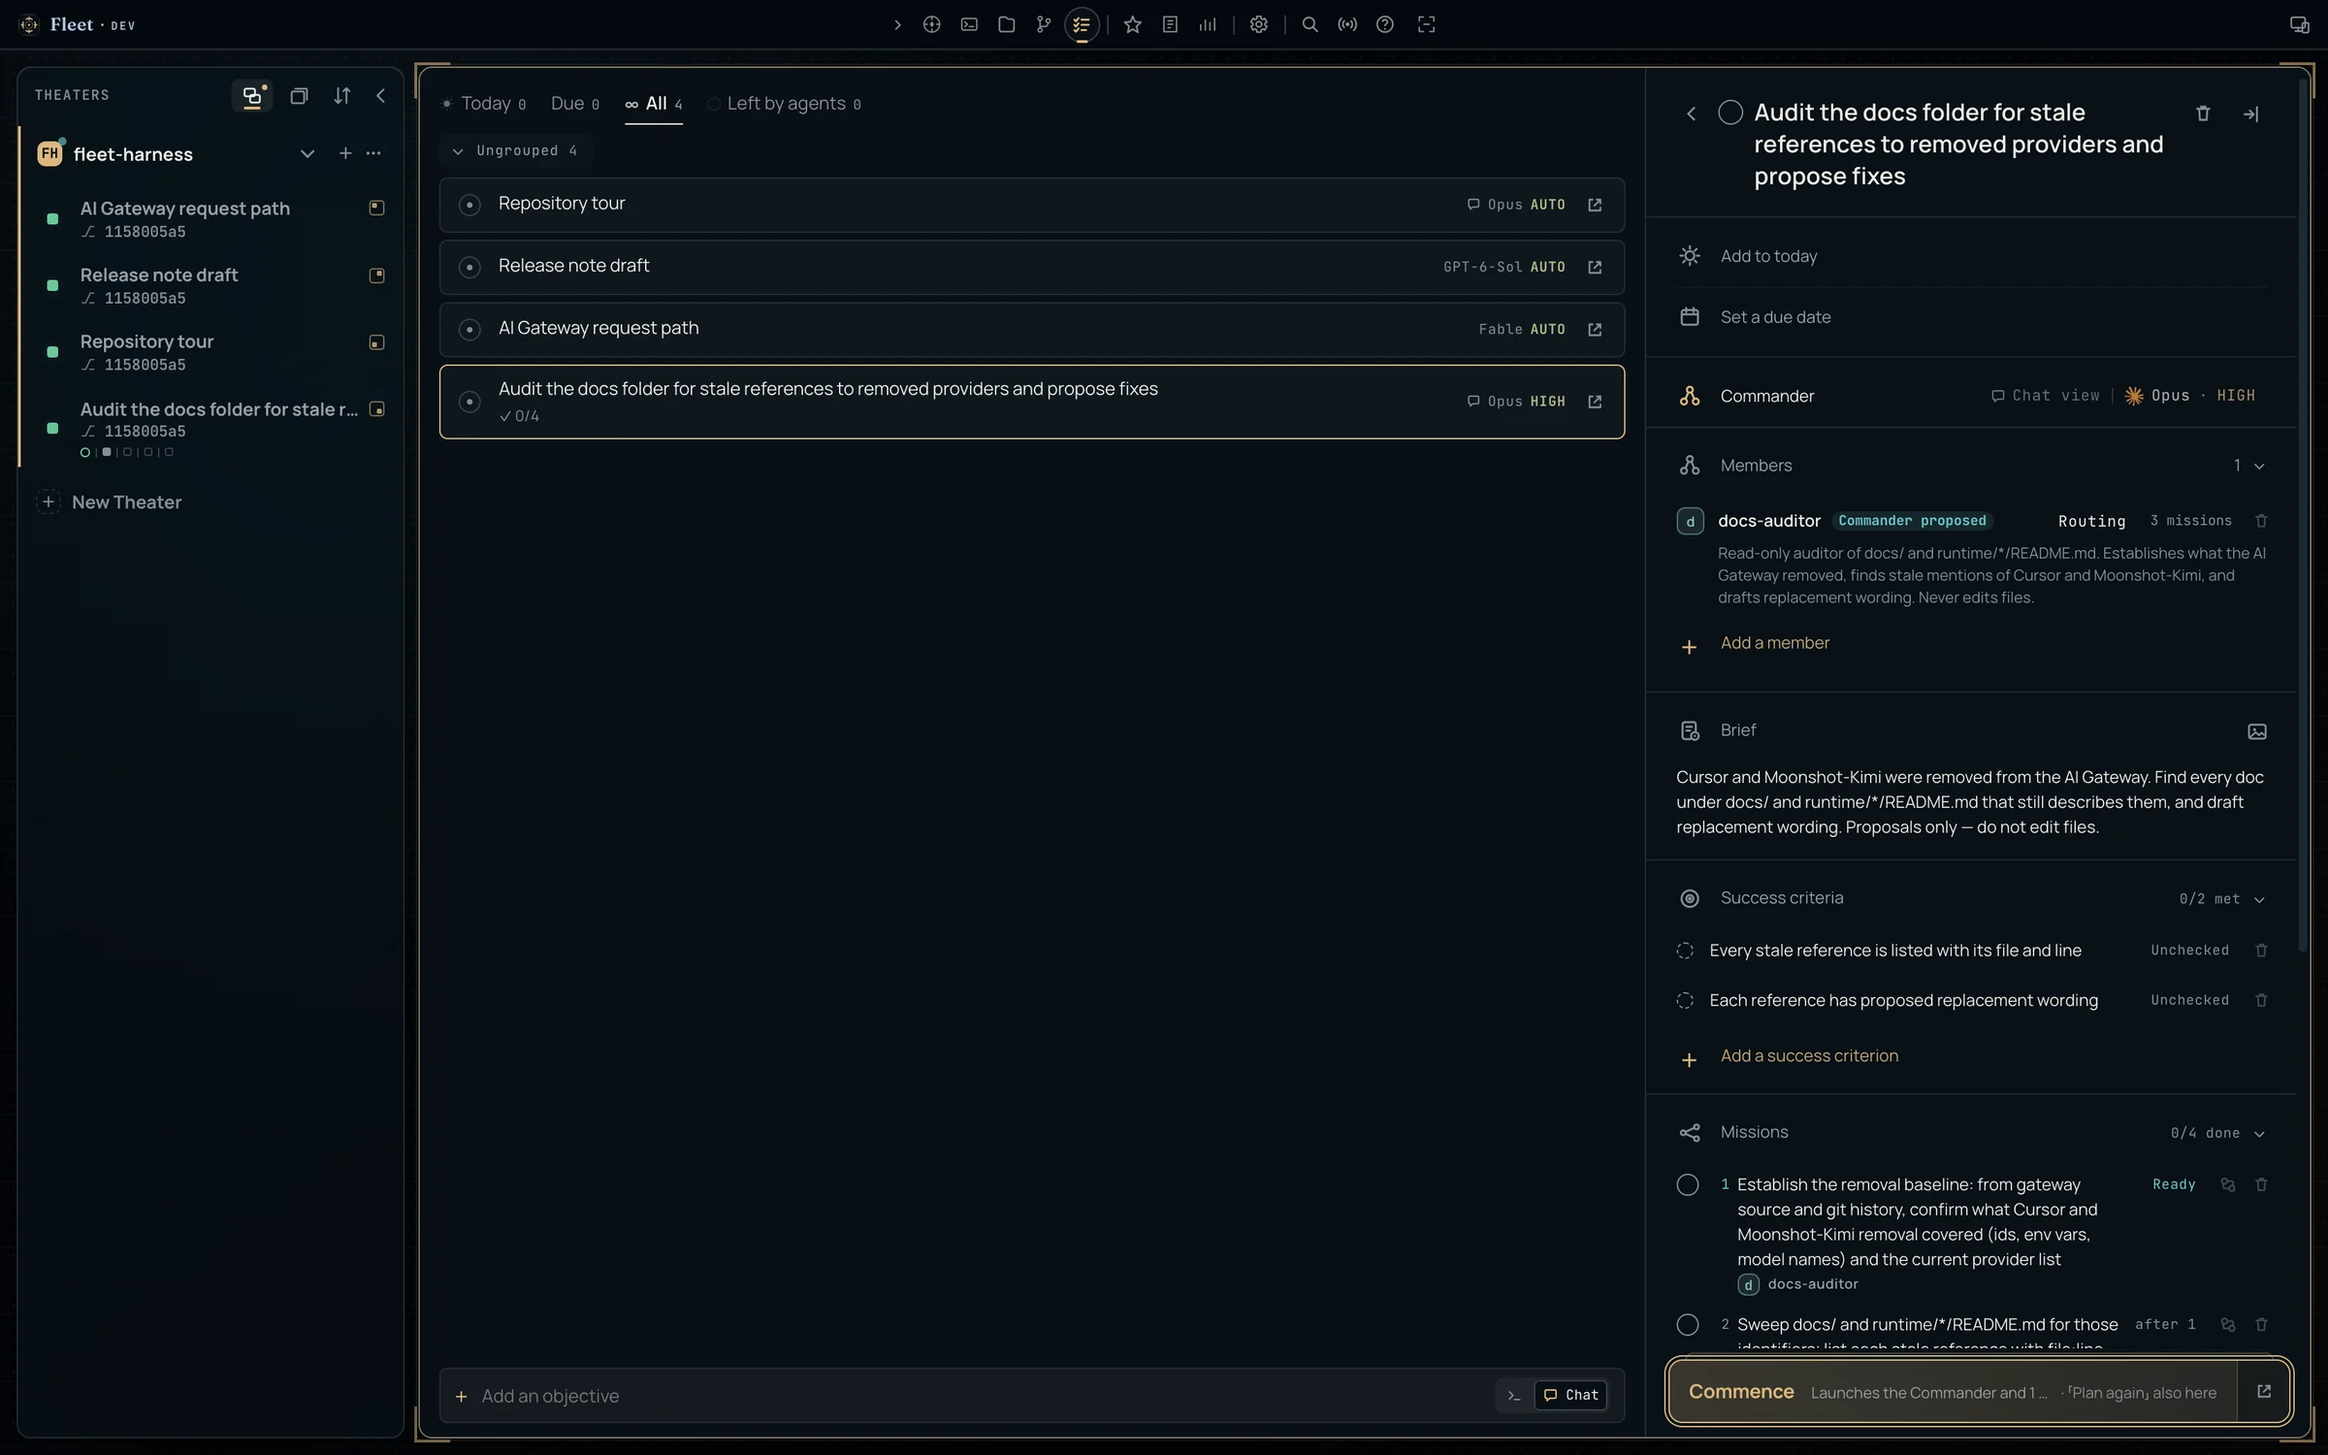
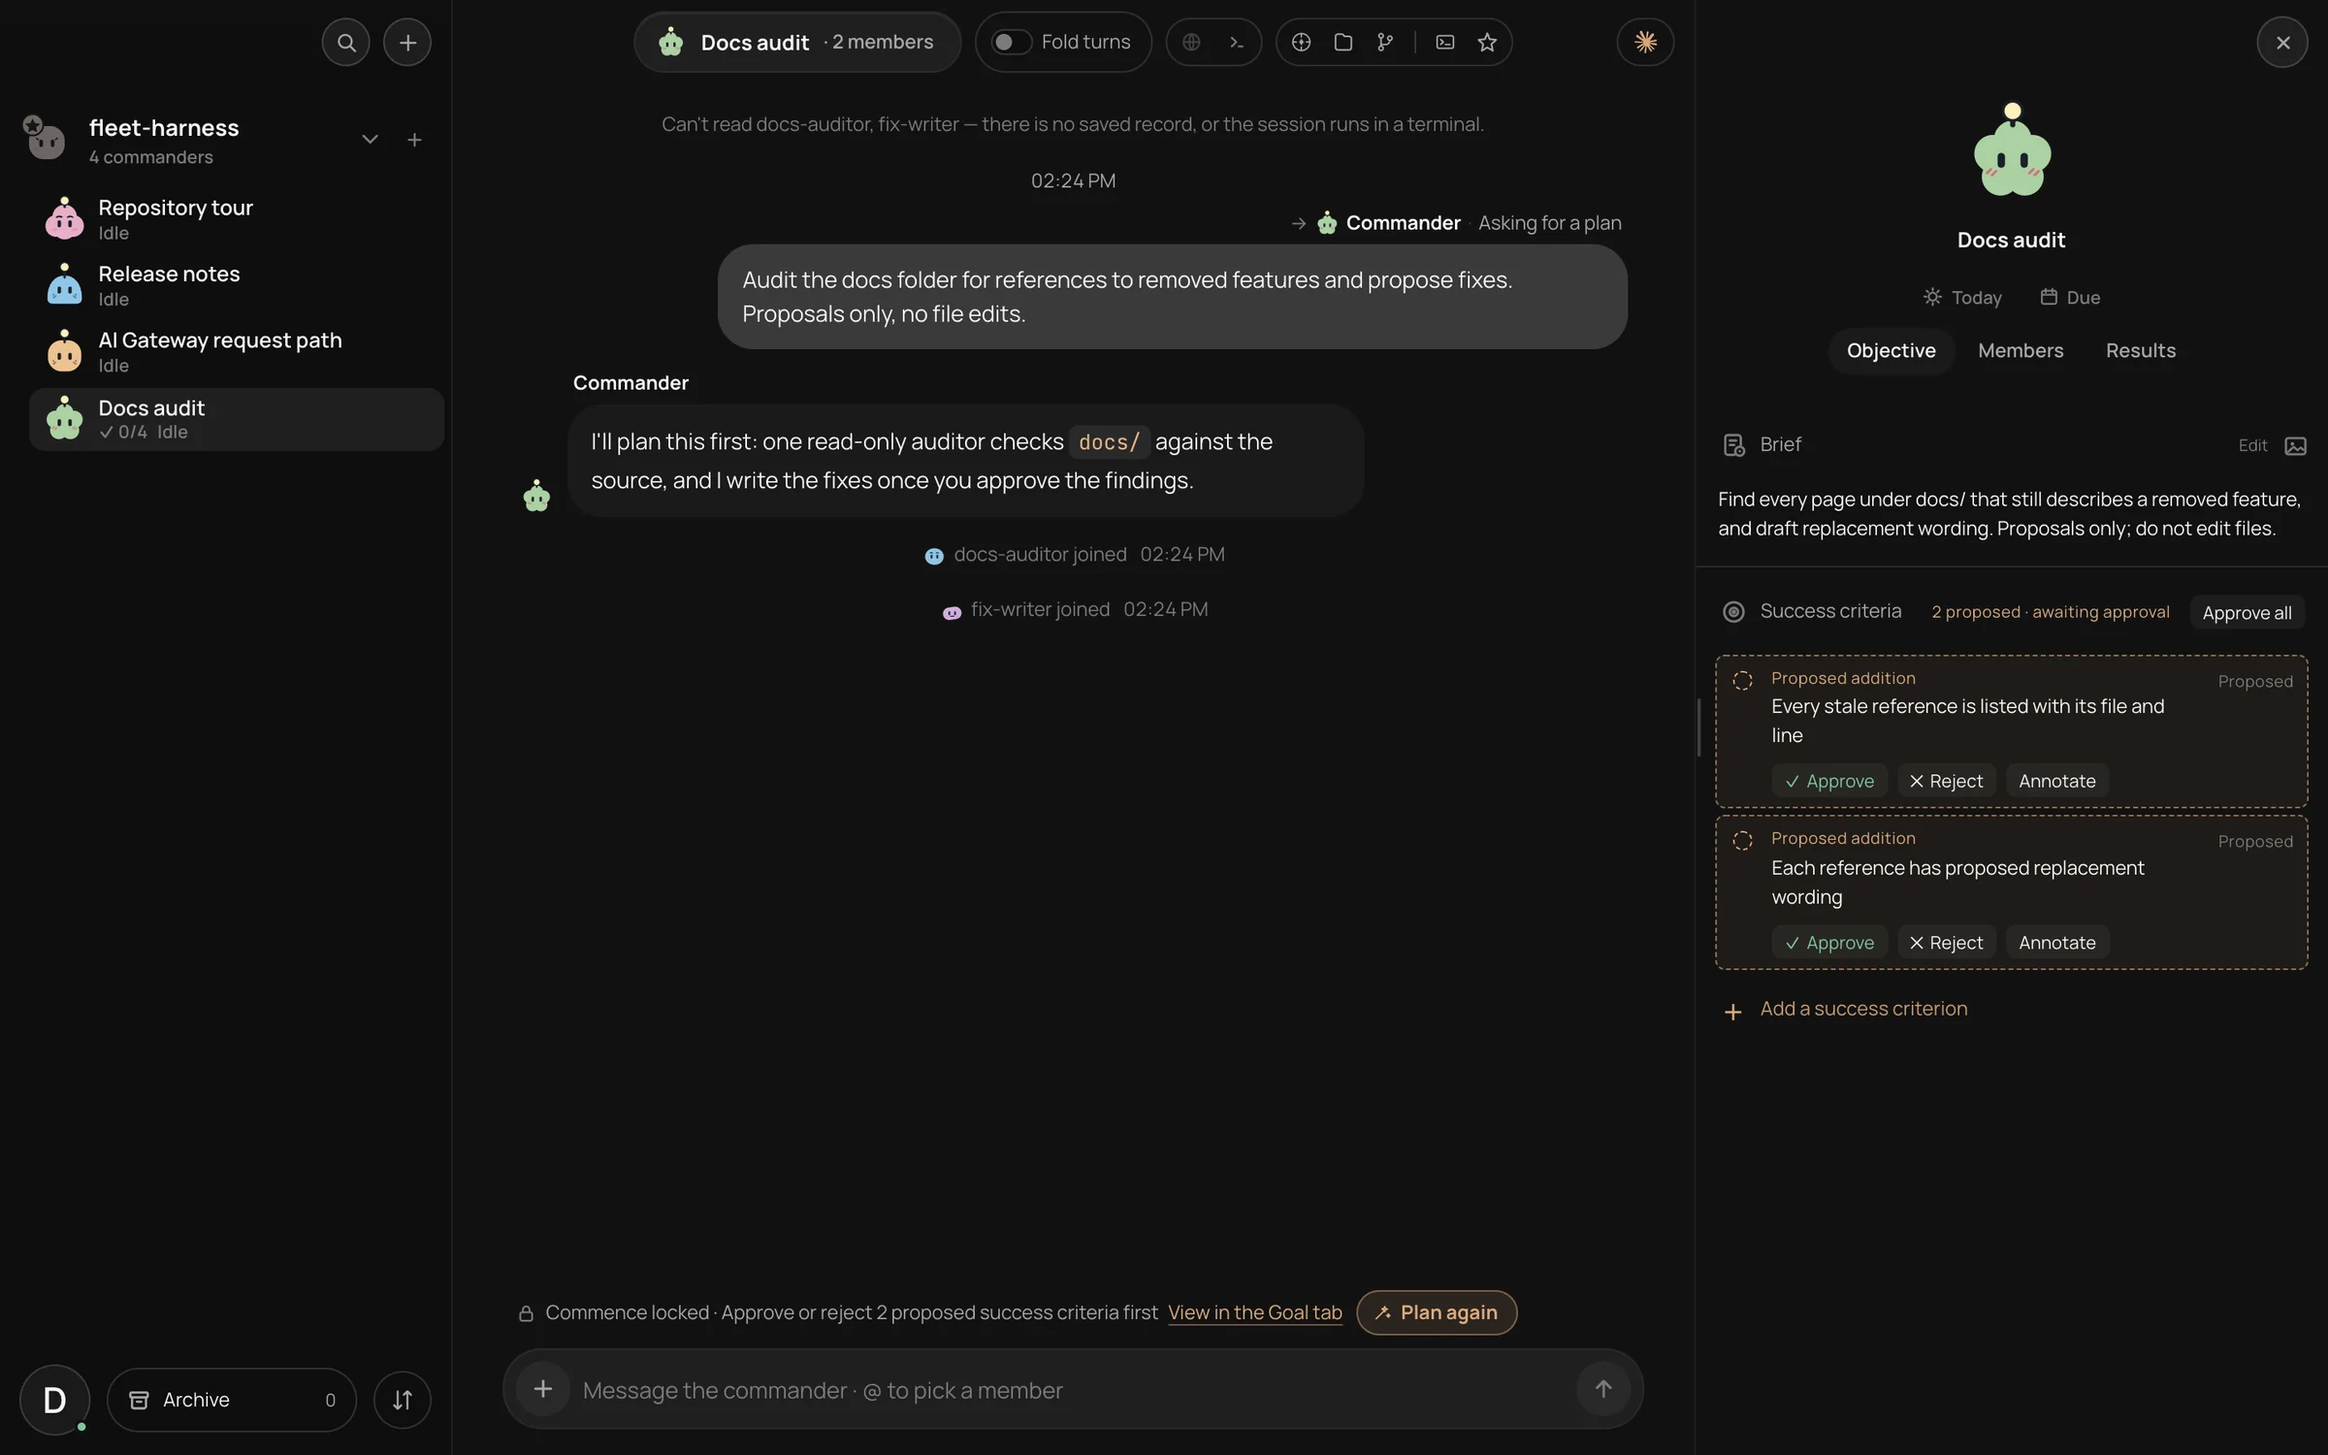
docs: refresh README for the conversation layout
- Describe conversations led by a Commander, objectives with proposed
  success criteria, and the Commodore's autonomous operation.
- Drop removed features (canvas, automatic dormancy, Liquid glass) and
  the experimental label on remote access; add the Fleet Browser and the
  tool bar above each conversation.
- Retake every screenshot on the current UI and keep the Korean README
  in step with the English one.

diff --git a/README.md b/README.md
@@ -22,9 +22,9 @@
 
 <br/>
 
-<img src=".github/console-canvas.webp" alt="Fleet Console with three live Operations in one Theater: Claude Fable and Codex GPT-6-Sol in terminal view, Claude Opus in chat view" width="100%" />
+<img src=".github/console-conversation.webp" alt="Fleet Console in its three-column layout: four conversations in the sidebar, a Repository tour chat in the middle, and the Files tool in the details column" width="100%" />
 
-<p align="center"><sub>One Theater, three Operations on three models. Fable traces the AI Gateway, GPT-6-Sol drafts a release note, and Opus gives a repository tour in chat view. The capture is from this repository.</sub></p>
+<p align="center"><sub>One Theater, four conversations on different models. The Repository tour is open in the middle, with Files beside it. Captured from a demo session on a copy of this repository.</sub></p>
 
 <br/>
 
@@ -39,15 +39,15 @@ fleet console
 
 Update from the Console or with `fleet update`. `npm update -g` rolls Fleet back to the old version left on npm.
 
-Add a project folder as a **Theater**, then right-click the sidebar or press <kbd>⌘</kbd><kbd>J</kbd> to launch your first **Operation**.
+Add a project folder as a **Theater** with the **+** at the top of the sidebar. Then start your first conversation with the **+** on the Theater's header or <kbd>⌘</kbd><kbd>J</kbd>.
 
 ## Sessions that outlive the tab
 
-An Operation is a Claude Code session owned by the Fleet server, not by the page you're looking at. You can close the tab, reload, or switch devices, and the session keeps running. When you come back, its scrollback replays. Each Operation can be shown as a full terminal or as a chat view, and you can switch between the two mid-session. Idle sessions go dormant and wake with a click. A closed panel can be reopened with <kbd>⌘</kbd><kbd>Z</kbd>.
+Each conversation is a Claude Code session owned by the Fleet server, not by the page you're looking at. You can close the tab, reload, or switch devices, and the session keeps running. When you come back, the conversation is still there. A conversation reads as chat by default, and you can reopen the same session in a full terminal. A session that has ended, for example after the Console restarts, comes back with **Resume**. A closed panel can be reopened with <kbd>⌘</kbd><kbd>Z</kbd>.
 
 ## Every frontier model, behind one launch menu
 
-<img src=".github/console-launch-menu.webp" alt="The launch menu: Claude's Fable, Opus and Sonnet, then enabled gateway models such as Codex GPT-6-Sol and xAI Grok-4.7" width="300" align="right" />
+<img src=".github/console-launch-menu.webp" alt="The launch menu: Claude's Fable, Opus and Sonnet, then enabled gateway models such as Codex GPT-6.1-Sol, xAI Grok-4.7 and Antigravity Gemini-3.1-Pro" width="300" align="right" />
 
 The launch menu lists Claude's own models first, then every gateway model you've enabled under **Settings → AI Gateway**. The same list appears in Claude Code's `/model` picker.
 
@@ -62,55 +62,59 @@ The gateway is a local Claude Code endpoint, not an API proxy. Claude Code keeps
 | **xAI** | Grok subscription | Grok 4.7 · Grok 4.7 Fast · Grok Composer 2.5 Fast |
 | **Cursor** | Cursor subscription | Grok 4.7 · Grok 4.7 Fast, each at 256K or 500K context · Muse Spark 1.3 at 300K or 1M |
 | **Muse Code** | Muse Code subscription | Muse Spark 1.3 · Muse Spark 1.3 Contributor |
-| **OpenCode Go** | API key | GLM-5.3 · GLM-5.3 Flash · DeepSeek V4 Pro · V4.1 Flash · V4 Flash Vision |
+| **OpenCode Go** | API key | GLM-5.3 · GLM-5.3 Flash · DeepSeek V4 Pro · V4.1 Flash · V4 Flash Vision · Muse Spark 1.3 Contributor |
 
-Each model carries its own reasoning ladder. Every row also offers **ULTRACODE**, which launches Claude Code at xhigh effort with standing multi-agent orchestration. With **AI Gateway routing** turned on, subagents and workflow stages are assigned to gateway models, and providers whose usage window is nearly spent are skipped. The **Usage limits** meters use the same measure, so you see a window running hot before it stops a run.
+Each model carries its own reasoning ladder. Every row also offers **ULTRACODE**, which launches Claude Code at xhigh effort with standing multi-agent orchestration. With **AI Gateway routing** turned on, subagents and workflow stages are assigned to gateway models, and providers whose usage window is nearly spent are skipped. The usage meters at the top right use the same measure, so you see a window running hot before it stops a run.
 
 ## Hand off work that takes more than one turn
 
-<img src=".github/console-objectives.webp" alt="An objective in planning: brief, two success criteria, a Commander-proposed docs-auditor member, and the first missions, with Commence ready" width="100%" />
+<img src=".github/console-objectives.webp" alt="An objective in planning: the Commander's reply and two members joining in the group conversation, with the brief and two proposed success criteria awaiting approval in the details column" width="100%" />
 
-An **Objective** is work you hand off whole. You write what you want and how you'll know it's done, and a Commander session carries it through.
+Every conversation is led by a **Commander**. You can simply talk to it, or turn the request into an **Objective**: work you hand off whole.
 
-1. **Brief.** Describe the work and add success criteria.
-2. **Plan.** The Commander lays out missions, their prerequisites, and any member sessions it needs. Nothing runs yet.
-3. **Commence.** The Commander works the missions itself or passes them to members. Each member has its own role, model, and effort.
+1. **Plan.** Write what you want and press **Plan**. The Commander lays out missions, their prerequisites, and the member sessions it needs, and proposes success criteria. Nothing runs yet.
+2. **Approve.** You approve, reject, or annotate each proposed criterion, and can add your own.
+3. **Commence.** The Commander works the missions itself or passes them to members. Each member has its own role, model, and effort. The Commander and its members share one group conversation, where you can @mention a member, stop the work, or answer the decisions they ask you to make.
 4. **Hand-off.** The objective comes back with a retrospective. You review it, complete it, and can turn follow-up candidates into new objectives.
 
-Open Objectives from the toolbar or with <kbd>⌘</kbd><kbd>⇧</kbd><kbd>Y</kbd>.
+An objective's brief, criteria, members, mission graph, and results sit in the details column beside its conversation. You can also answer decisions, commence, and complete objectives from your phone.
+
+## Let the Commodore run a Theater
+
+Each Theater has a **Commodore**: a coordinator that can run the Theater's objectives on its own. Turn on autonomous operation with the Commodore glyph on the Theater's header. The Commodore then creates objectives from a title and brief, leaves the plan to each Commander, commences and reviews them, and answers Commanders' questions. Decisions it should not make wait for you under **Your decisions**, and it can ask you directly. Click the Theater's header to open its **Theater Inbox**, with the Commodore's log, directive, and settings beside the Theater's system prompt. You can hand a single objective to the Commodore from its sidebar row, and while it runs the Theater you can message it from Quick Launch with `@`.
 
 ## One conversation at a time
 
-The desktop screen is a conversation. The sidebar lists Operations, the middle holds the one you're in, and the right column keeps the Theater's tools. <kbd>Alt</kbd><kbd>←</kbd> and <kbd>Alt</kbd><kbd>→</kbd> move between Operations in the active Theater.
+The desktop screen is a conversation. The sidebar lists each Theater's conversations, the middle holds the one you're in, and the details column on the right shows that conversation's objective or the tool you opened. <kbd>Alt</kbd><kbd>←</kbd> and <kbd>Alt</kbd><kbd>→</kbd> move between conversations in the active Theater. Every session has an avatar that acts out what it is doing, and you can pick another character or color for it.
 
-<kbd>⌘</kbd><kbd>K</kbd> jumps to any Operation, file, or wiki page. <kbd>⌘</kbd><kbd>P</kbd> opens the command palette, <kbd>⌘</kbd><kbd>J</kbd> opens Quick Launch, and <kbd>Alt</kbd><kbd>S</kbd> sorts the sidebar by status. Every shortcut can be rebound. On Windows and Linux, <kbd>⌘</kbd> is <kbd>Ctrl</kbd>.
+<kbd>⌘</kbd><kbd>K</kbd> jumps to any conversation, file, or wiki page. <kbd>⌘</kbd><kbd>P</kbd> opens the command palette, <kbd>⌘</kbd><kbd>J</kbd> opens Quick Launch, <kbd>⌘</kbd><kbd>⇧</kbd><kbd>Y</kbd> toggles Objectives, and <kbd>Alt</kbd><kbd>S</kbd> sorts the sidebar by status. Every shortcut can be rebound. On Windows and Linux, <kbd>⌘</kbd> is <kbd>Ctrl</kbd>.
 
-## The project, beside the session
+## The project, beside the conversation
 
-<img src=".github/console-repository.webp" alt="The Repository tool: branches, remotes, tags and stashes beside a commit graph of this repository" width="100%" />
+<img src=".github/console-repository.webp" alt="The Repository tool: worktrees, branches, remotes, tags and stashes beside a commit graph of this repository" width="100%" />
 
-The toolbar opens tools that follow the active Theater:
+A tool bar above every conversation opens tools for that conversation's Theater:
 
 - **Repository**: history, changes, compare, worktrees, branches, tags, and stashes.
 - **Files**: a tree with quick peek, pinned folders, and git status tints.
 - **Shell**: one terminal for the whole Console, a keystroke away (<kbd>Ctrl</kbd><kbd>`</kbd>).
 - **Codex**: the project wiki. An experimental Cowork mode lets an AI draft edits to a page, and nothing changes until you apply them.
 - **Skills**: browse and install skills.
-- **Usage limits**: provider quotas.
-- **Objectives**: the work you've handed off.
 
-Beside any single Operation you can also open these companions:
+Provider quotas stay in view as usage meters at the top right; click them for the details.
+
+Beside a conversation you can also open:
 
 - **Session Analyst** (<kbd>Alt</kbd><kbd>A</kbd>) reads a session without disturbing it and answers what happened, what needs review, or how to hand it off.
-- **Session Browser** (<kbd>Alt</kbd><kbd>B</kbd>, Desktop only) is a browser the agent drives on the same tabs you see, and you can annotate a page for it.
+- **Session Browser** (<kbd>Alt</kbd><kbd>B</kbd>, Desktop only) is a browser the agent drives on the same tabs you see, and you can annotate a page for it. The **Fleet Browser** (<kbd>⌘</kbd><kbd>⇧</kbd><kbd>B</kbd>, Desktop only) is your own browser beside the conversation. Drag the edge between them to resize it.
 
-With **Console Use**, agents can operate the Console itself. **Computer Use** extends that to Mac apps. Both are granted per Operation, and each request is approved inside the panel.
+With **Console Use**, agents can operate the Console itself. **Computer Use** extends that to Mac apps. Both are granted per session, and each request is approved inside the panel.
 
 ## On any screen
 
 **Desktop.** Fleet Console Desktop is a thin native shell for macOS, Windows, and Linux, available from [GitHub Releases](https://github.com/sbluemin/fleet-harness/releases/latest). It manages its own Console runtime and updates itself on macOS and Windows.
 
-**Remote access.** Remote access is experimental and off by default. Once you turn it on, a Console opens only to devices you pair:
+**Remote access.** Remote access is off until you set it up on the **Remote access** page in Settings. Once it is on, a Console opens only to devices you pair:
 
 - Access links work once and expire after 15 minutes.
 - Every link is pinned to the Console's certificate.
@@ -118,9 +122,9 @@ With **Console Use**, agents can operate the Console itself. **Computer Use** ex
 - Monitoring-only links let a screen watch without typing.
 - Reaching the Console over the public internet is a separate opt-in.
 
-<img src=".github/mobile-android.webp" alt="Fleet on Android: paired consoles, the Operations list, and a Claude Code session running on the phone" width="100%" />
+<img src=".github/mobile.webp" alt="Fleet on a phone: the conversation list with the Theater's Commodore, a chat, and an objective with criteria awaiting approval" width="100%" />
 
-**Mobile.** The same Operations you left on your desk are on your phone, with full scrollback. The Android and iOS apps are in tester distribution; the source lives in [`runtime/fleet-mobile`](runtime/fleet-mobile).
+**Mobile.** The conversations you left on your desk are on your phone too. The home screen lists them with the Theater's Commodore at the top, and an objective's board opens from its conversation, so you can approve criteria, answer decisions, and commence or complete work. The Android and iOS apps are in tester distribution; the source lives in [`runtime/fleet-mobile`](runtime/fleet-mobile).
 
 ## Local by default
 
@@ -130,7 +134,7 @@ With **Console Use**, agents can operate the Console itself. **Computer Use** ex
 
 ## Make it yours
 
-Choose a theme: **Instrument**, **Maritime**, or **Carbon** (dark), or **Whites** (light). You can add Liquid glass, pick interface and terminal fonts from those installed on your machine, and rebind every shortcut. The Console speaks English and Korean and switches between them without a reload.
+Choose a theme: **Instrument**, **Maritime**, or **Carbon** (dark), or **Whites** (light). You can pick interface and terminal fonts from those installed on your machine, reduce motion or keep avatars calm, and rebind every shortcut. The Console speaks English and Korean and switches between them without a reload.
 
 ## Go deeper
 
